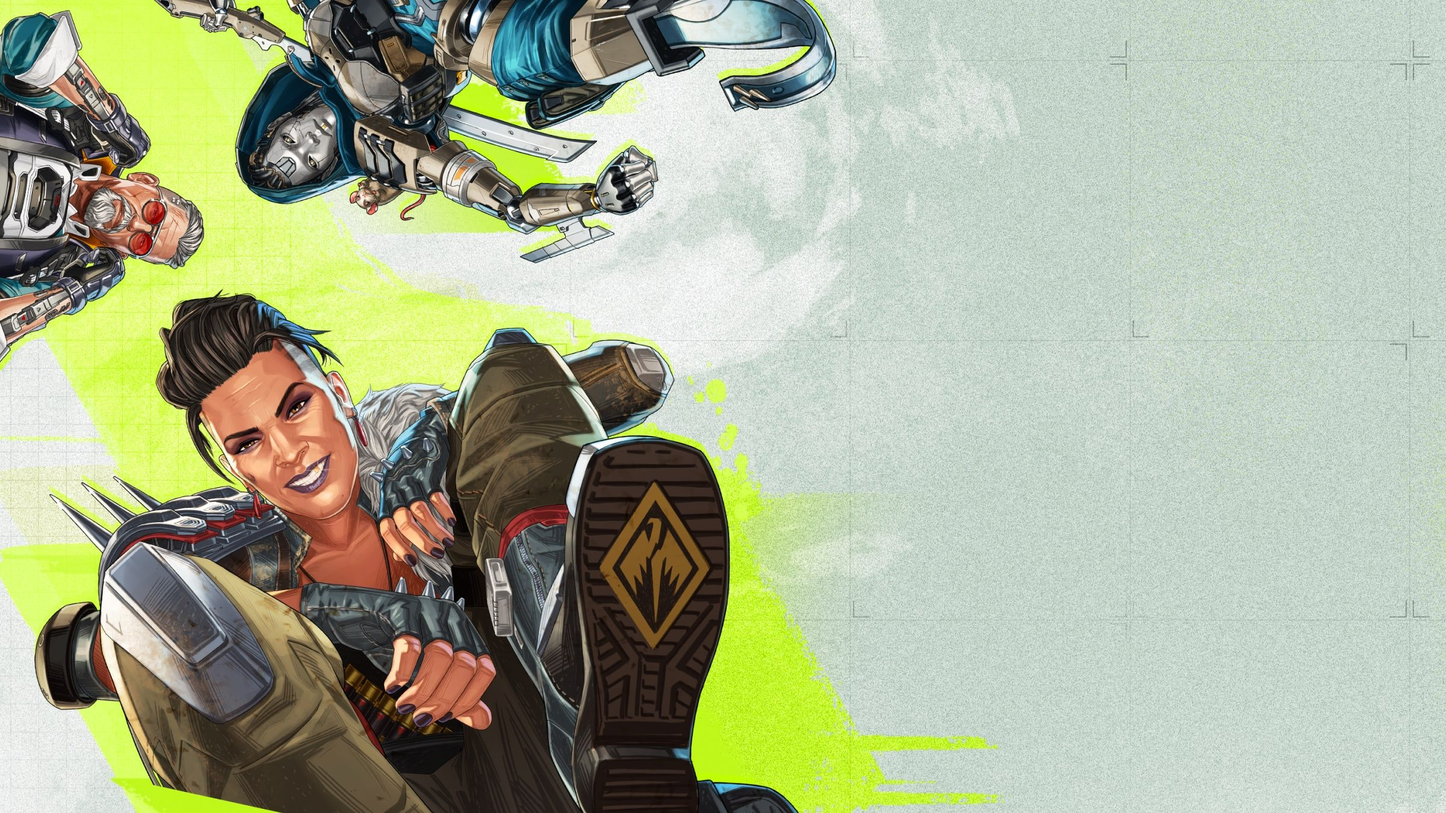
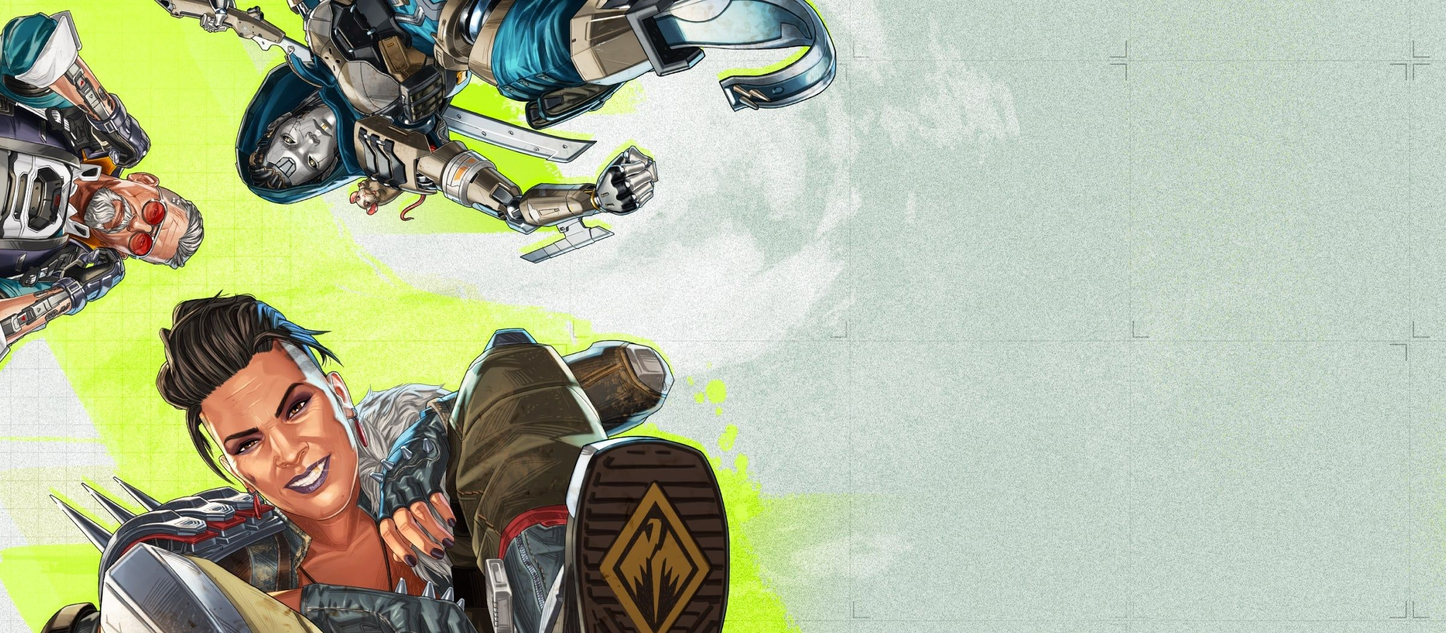
add gallery grid, button

diff --git a/ElectronicArts/style.css b/ElectronicArts/style.css
@@ -71,11 +71,15 @@ body {
 .Header-Wallpaper-Main-Picture {
     max-width: 100%;
     height: auto;
-    clip-path: inset(0px 0px 300px 0px); /* обрізка знизу */
-    }
+    object-fit: cover; /* забезпечує належне масштабування */
+    display: block; /* щоб уникнути небажаних відступів */
+    margin: 0 auto; /* центрує картинку */
+}
+
 
 .Header-Wallpaper-Space-Button-Play-Now {
     position: absolute;
+    top: 150px;
     bottom: 550px; /* регулюй відстань від низу */
     left: 65%; /* зміщення вправо */
     display: flex;
@@ -90,4 +94,73 @@ body {
     border-radius: 3px;
     border: none;
     font-size: 16px;
+}
+
+.Main-Title-Text {
+    text-align: center;
+    margin-top: 75px;
+    font-size: 50px;
+    font-family: sans-serif;
+    font-size: 40px;
+}
+
+.Main-Picture-Collection-Featured-Games {
+    display: grid;
+    grid-template-columns: repeat(3, 325px); /* 3 стовпчики, кожен займає однакову частку простору */
+    grid-template-rows: repeat(2, 325px);  /* 2 рядки, кожен з фіксованою висотою 200px (за прикладом) */
+    gap: 30px; /* відступи між блоками */
+    max-width: 55%; /* наприклад, обмежуємо ширину контейнера */
+    margin: 0 auto; /* центровання контейнера */
+    
+}
+
+.Main-Picture-Collection-Featured-Games-Blocks {
+    width: 330px;
+    height: 330px;
+    background-color: gray;
+}
+
+#Dragon-Age {
+    background-image: url('media/Gallery/dragon-age-key-art-16x9.jpg.adapt.crop1x1.767p.jpg');
+    background-size: cover;  
+}
+
+#FC25 {
+    background-image: url('media/Gallery/fc-25-key-art.png.adapt.crop1x1.767p.png');
+    background-size: cover;
+}
+
+#F1 {
+    background-image: url('media/Gallery/F1.jpeg');
+    background-size: cover;
+}
+
+#WRC {
+    background-image: url('media/Gallery/WRC.jpeg');
+    background-size: cover;
+}
+
+#SIMS4 {
+    background-image: url('media/Gallery/the-sims-4-keyart.jpg.adapt.crop1x1.767p.jpg');
+    background-size: cover;
+}
+
+#Apex {
+    background-image: url('media/Gallery/apex-legends-keyart.jpg.adapt.crop1x1.767p.jpg');
+    background-size: cover;
+}   
+
+.Main-Buttons {
+    text-decoration: none;
+    background: transparent;
+    border: rgb(0, 0, 0) solid;
+    border-width: 2px;
+    padding: 16px 24px;
+    font-family: sans-serif;
+    font-size: 20px;
+}
+
+#Main-Buttons-Latest-Games {
+    margin: 40px auto;
+    display: block;
 }

diff --git a/ElectronicArts/index.html b/ElectronicArts/index.html
@@ -42,13 +42,22 @@
             </div>
         </div>
     </header>
-
     <main>
         <section class="Main-Featured-Games">
-            <div class="Main-Title-Text"></div>
-            <div class="Main-Picture-Collection-Featured-Games"></div> 
-            <button class="Main-Buttons"></button> <!--кнопки прозорі добавити айдішки-->
-        </section>
+            <h1 class="Main-Title-Text">Featured Games</h1>
+            <div class="Main-Picture-Collection-Featured-Games">
+                
+                <div class="Main-Picture-Collection-Featured-Games-Blocks" id="Dragon-Age"></div>
+                <div class="Main-Picture-Collection-Featured-Games-Blocks" id="FC25"></div>
+                <div class="Main-Picture-Collection-Featured-Games-Blocks" id="F1"></div>
+                
+                <div class="Main-Picture-Collection-Featured-Games-Blocks" id="WRC"></div>
+                <div class="Main-Picture-Collection-Featured-Games-Blocks" id="SIMS4"></div>
+                <div class="Main-Picture-Collection-Featured-Games-Blocks" id="Apex"></div>
+
+            </div>
+            <button class="Main-Buttons" id="Main-Buttons-Latest-Games">Latest Games</button>
+          </section>
 
         <section class="Main-Latest-Updates">
             <nav class="Main-Nav-Latest-Updates"></nav>
